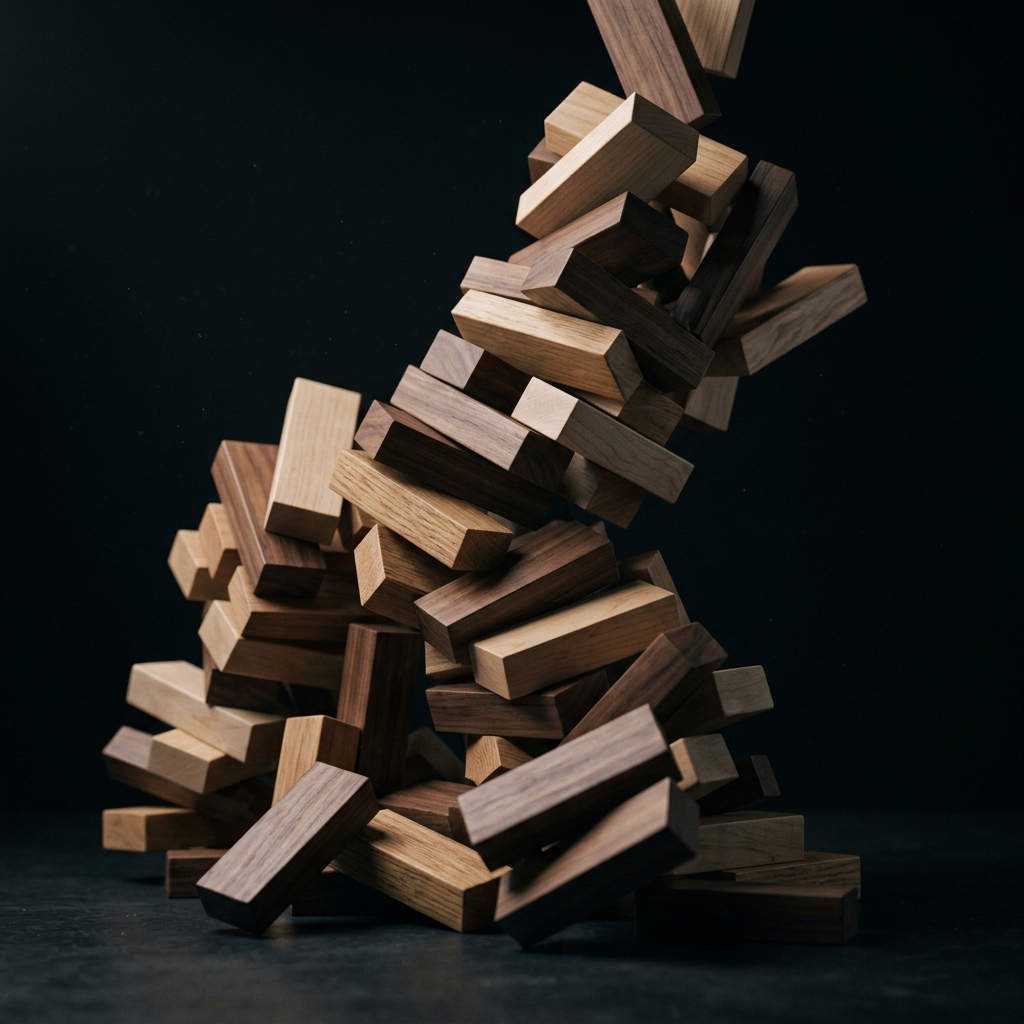
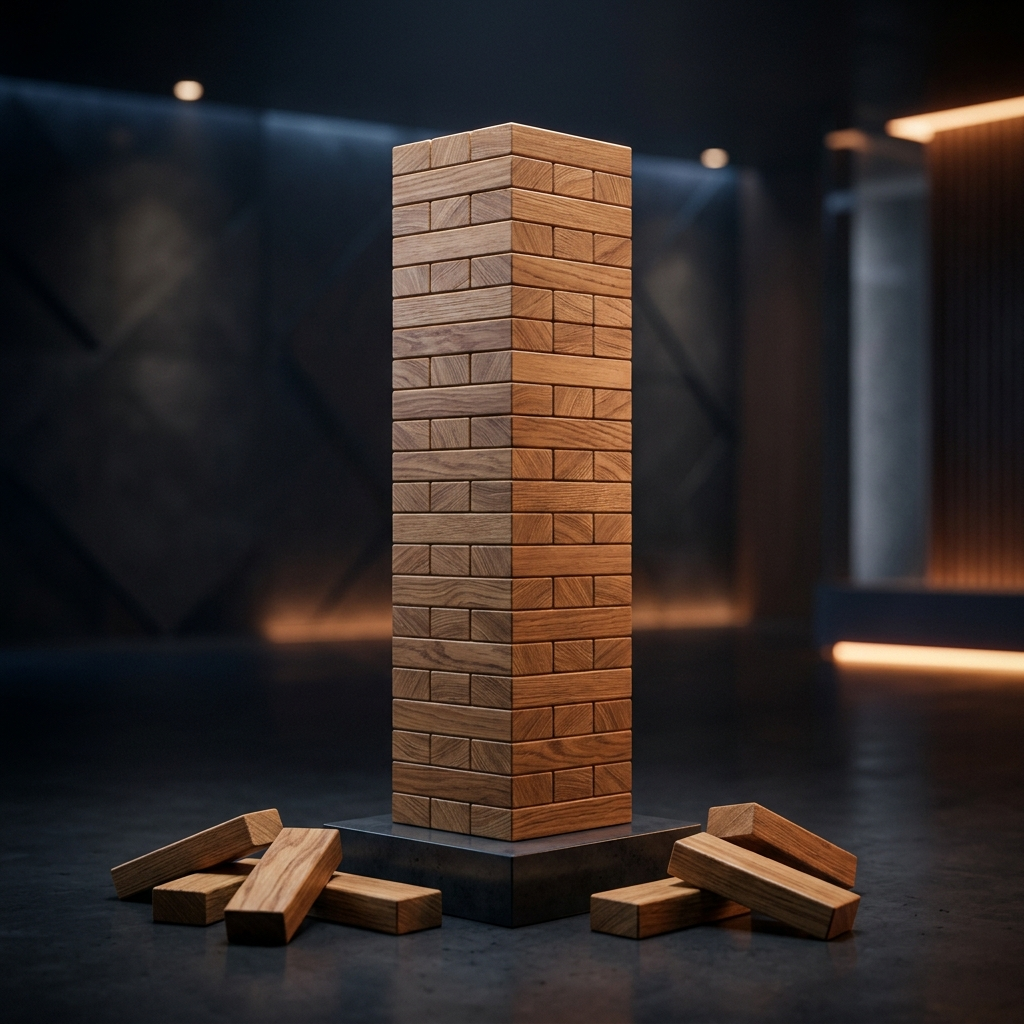
my wo

diff --git a/src/components/EventsSection.tsx b/src/components/EventsSection.tsx
@@ -258,7 +258,7 @@ export default function EventsSection() {
     <section
       ref={containerRef}
       id="events"
-      style={{ height: isMobile ? "90dvh" : trackHeight }}
+      style={{ height: isMobile ? "95dvh" : trackHeight }}
       className="relative w-full bg-brand-navy flex flex-col"
     >
       <div className="flex justify-center shrink-0">
@@ -619,7 +619,7 @@ function WheelCard({ event, index, progress, totalCards }: WheelCardProps) {
             xl:[--wheel-pivot:clamp(-1150px,-50vw,-700px)_50%]"
         >
           <div className="group relative bg-brand-navy/95 backdrop-blur-md border border-brand-golden-yellow/30 hover:border-brand-golden-yellow transition-all duration-300 rounded-xl lg:rounded-2xl flex flex-col sm:flex-row shadow-2xl w-full overflow-hidden
-            h-auto sm:h-[260px] md:h-[300px] lg:h-[340px] xl:h-[380px] 2xl:h-[420px]">
+            h-auto sm:h-[250px] md:h-[265px] lg:h-[280px] xl:h-[295px] 2xl:h-[310px]">
             
 {/* MOBILE VIEW: Swipe Left Hint Animation (First two cards only) */}
 {index < 2 && (
@@ -687,50 +687,51 @@ function WheelCard({ event, index, progress, totalCards }: WheelCardProps) {
             {/* Subtle Glow Border */}
             <div className="absolute inset-0 border border-brand-golden-yellow/20 scale-95 opacity-0 group-hover:opacity-100 transition-opacity duration-300 pointer-events-none z-10 rounded-xl lg:rounded-2xl" />
 
-            {/* Card Media Section — fixed 45% width on desktop */}
-            <div className="relative w-full sm:w-[45%] shrink-0 grow-0 h-[200px] sm:h-full border-b sm:border-b-0 sm:border-r border-brand-golden-yellow/30 overflow-hidden bg-black">
+            {/* Card Media Section — fixed 42% width on desktop, expanded height on mobile so image fits */}
+            <div className="relative w-full sm:w-[42%] shrink-0 grow-0 h-[195px] xs:h-[210px] sm:h-full border-b sm:border-b-0 sm:border-r border-brand-golden-yellow/30 overflow-hidden bg-black">
               <Image
                 src={event.image}
                 alt={event.title}
                 fill
                 draggable={false}
-                priority={index === 0}
-                loading={index < 3 ? "eager" : "lazy"}
+                priority={index < 4}
                 sizes="(max-width: 640px) 100vw, 45vw"
                 className="object-cover opacity-80 group-hover:opacity-100 transition-opacity duration-500 group-hover:scale-105 select-none"
               />
             </div>
 
-            {/* Card Details Section — fixed 55% width, content pinned top/bottom */}
-            <div className="w-full sm:w-[55%] shrink-0 grow-0 p-3 sm:p-3 md:p-4 lg:p-5 xl:p-6 2xl:p-7
+            {/* Card Details Section — fixed 58% width, content pinned top/bottom */}
+            <div className="w-full sm:w-[58%] shrink-0 grow-0 p-3 sm:p-3 md:p-4
               flex flex-col justify-between
               bg-brand-navy relative z-20 overflow-hidden">
 
               {/* TOP: Event ID + Title + Badges */}
-              <div className="flex flex-col gap-1.5 sm:gap-2 md:gap-2.5 overflow-hidden">
+              <div className="flex flex-col gap-1 sm:gap-1.5 overflow-hidden">
 
                 {/* Title row with ID pinned top-right */}
                 <div className="flex items-start justify-between gap-2">
-                  <div className="flex items-center gap-1.5 sm:gap-2 min-w-0 overflow-hidden">
-                    <div className={`w-2 h-2 sm:w-2.5 sm:h-2.5 rounded-full shrink-0 ${event.colorCls.bg}`} />
-                    <h3 className="font-brand-competition text-xs sm:text-sm md:text-base lg:text-lg xl:text-xl 2xl:text-2xl font-bold text-brand-white tracking-wide leading-tight line-clamp-3 overflow-hidden">
+                  <div className="flex items-center gap-1 sm:gap-1.5 min-w-0 overflow-hidden">
+                    <div className={`w-1.5 h-1.5 sm:w-2 sm:h-2 rounded-full shrink-0 ${event.colorCls.bg}`} />
+                    <h3 className="font-brand-competition text-[11px] sm:text-sm md:text-base lg:text-lg font-bold text-brand-white tracking-wide leading-tight line-clamp-2 overflow-hidden">
                       {event.title}
                     </h3>
                   </div>
-                  <span className={`font-brand-heading font-bold text-xs sm:text-sm md:text-base lg:text-lg xl:text-xl shrink-0 ${event.colorCls.text}`}>
+                  <span className={`font-brand-heading font-bold text-[11px] sm:text-sm md:text-base lg:text-lg shrink-0 ${event.colorCls.text}`}>
                     #{event.id}
                   </span>
                 </div>
 
-                {/* Category & Difficulty badges */}
-                <div className="flex flex-wrap items-center gap-1.5">
-                  <span className={`font-brand-heading font-bold text-[9px] sm:text-[10px] md:text-xs uppercase tracking-widest px-2 py-0.5 sm:py-1 rounded border ${event.colorCls.border} ${event.colorCls.text} bg-transparent whitespace-nowrap`}>
+                {/* Category badge */}
+                <div className="flex flex-wrap items-center gap-1">
+                  <span className={`font-brand-heading font-bold text-[8px] sm:text-[9px] md:text-[10px] uppercase tracking-widest px-1.5 py-0.5 border ${event.colorCls.border} ${event.colorCls.text} bg-transparent whitespace-nowrap`}>
                     {event.category}
                   </span>
-                  <span className="font-brand-heading font-bold text-[9px] sm:text-[10px] md:text-xs uppercase tracking-widest px-2 py-0.5 sm:py-1 rounded border border-brand-white/20 text-brand-white/60 whitespace-nowrap">
-                    {event.difficulty}
-                  </span>
                 </div>
+
+                {/* Description teaser */}
+                <p className="hidden sm:block font-brand-body text-[10px] md:text-[11px] lg:text-xs text-brand-white/70 leading-snug line-clamp-2 md:line-clamp-3">
+                  Initiate protocol {event.id}. Prepare your systems for the {event.title} challenge within BitBuzz and prove your mastery.
+                </p>
               </div>
 
               {/* BOTTOM: View Details button — always pinned to bottom via mt-auto */}
@@ -738,12 +739,12 @@ function WheelCard({ event, index, progress, totalCards }: WheelCardProps) {
                 href={`/event/${event.slug}`}
                 onPointerDown={(e) => e.stopPropagation()}
                 onClick={(e) => e.stopPropagation()}
-                className={`relative z-30 mt-auto block text-center w-full py-2 sm:py-2.5 md:py-3 lg:py-3.5
+                className={`relative z-30 mt-auto block text-center w-full py-1.5 sm:py-2 md:py-2.5
                   border ${event.colorCls.border} ${event.colorCls.text}
-                  font-brand-heading text-[10px] sm:text-xs md:text-sm lg:text-base xl:text-lg
+                  font-brand-heading text-[9px] sm:text-[10px] md:text-xs lg:text-sm
                   font-bold tracking-wider uppercase whitespace-nowrap
                   ${event.colorCls.hoverBg} hover:text-brand-navy
-                  transition-colors rounded-md cursor-pointer`}
+                  transition-colors rounded-sm cursor-pointer`}
               >
                 [ View Details ]
               </Link>
